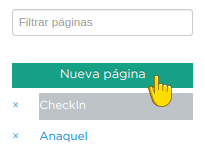
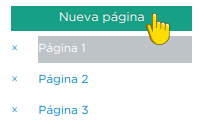
Actualización en configuración de email (Formas)

diff --git a/content/Usuario/Formas/index.rst b/content/Usuario/Formas/index.rst
@@ -44,8 +44,8 @@ Linkaform presentará una plantilla en blanco, a partir de la cual podrá estruc
 
 .. image:: /imgs/Formas/Formas2.png
 
-Nombre de forma
----------------
+Nombre de la forma
+------------------
 
 Para establecer o cambiar el nombre de una forma, siga los pasos:
 
@@ -65,9 +65,15 @@ Las páginas son útiles para organizar la información de formularios extensas 
 
 Para agregar una nueva página, simplemente presione el botón verde ``Nueva página``. 
 
+.. note:: Puede crear las páginas necesarias, que por defecto van tomando el número de página por orden de creación, es decir, página 1, página 2, etc.
+
 .. image:: /imgs/Formas/Formas103.png
 
-.. note:: Puede crear las páginas necesarias, que por defecto van tomando el número de página por orden de creación, es decir, página 1, página 2, etc.
+Para duplicar la página, presione el botón ``Duplicar Página`` ubicado en la parte superior derecha. 
+
+.. note:: Al duplicar, se creará una copia exacta de la página actual, incluido el nombre seguido de la leyenda **copy**, lo que identificará a la página como una copia.
+
+.. image:: /imgs/Formas/Formas106.png
 
 Para definir o cambiar el nombre de una página es sencillo. Siga los siguientes pasos:
 
@@ -82,9 +88,9 @@ Para eliminar una página haga clic en el icono ``x`` ubicado a un costado del n
 
 .. image:: /imgs/Formas/Formas105.png
 
-.. hint:: Si tiene un formulario extenso, utilice el buscador que permite filtrar las páginas.
+Si tiene un formulario extenso, utilice el buscador que permite filtrar las páginas.
 
-  .. image:: /imgs/Formas/Formas104.png
+.. image:: /imgs/Formas/Formas104.png
 
 .. _opciones-campos:
 
@@ -127,20 +133,33 @@ En la siguiente tabla, encontrará características que están disponibles para 
    * - Ayuda
      - Habilita una opción de texto adicional en el campo como referencia a la respuesta solicitada.
 
-.. importante:: Actualizar el nombre es una opción disponible para **todos** los campos. Cuando crea un campo nuevo, por defecto tiene el nombre ``Título de la pregunta``. Pulse sobre él o sobre el icono de edición, ingrese el nuevo nombre y pulse ``Enter`` para identificar el campo.
-
 .. _configuracion:
+
+Nombre de los campos
+^^^^^^^^^^^^^^^^^^^^
+
+La opción de actualizar el nombre está disponible para **todos** los campos. Cuando crea un nuevo campo, el nombre predeterminado es ``Título de la pregunta``. Para actualizar, siga estos pasos:
+
+1. Presione el icono de lápiz o haga clic en el título actual del campo.
+2. Ingrese el nuevo nombre del campo.
+3. Presione el botón verde ``✓`` o directamente ``Enter`` para completar los cambios.
+
+.. image:: /imgs/Formas/Formas108.png
+
+.. attention:: Recuerde que es muy importante guardar cambios después de realizar cualquier modificación dentro de la forma. Para hacerlo, simplemente presione el botón ``Guardar`` ubicado en la parte superior derecha.
+
+  .. image:: /imgs/Formas/Formas107.png
 
 Campo texto 
 ^^^^^^^^^^^
 
-Los campos de tipo texto son utilizados para capturar datos que consisten en caracteres alfabéticos, numéricos o alfanuméricos, tales como nombres, descripciones, comentarios u otra información textual. En las siguientes pestañas, podrá encontrar información útil acerca de su uso.
+Los campos de tipo texto son utilizados para capturar datos que consisten en caracteres alfabéticos, numéricos o alfanuméricos, tales como nombres, descripciones, comentarios u otra información textual. En las siguientes pestañas, podrá encontrar información detallada acerca de su uso.
 
 .. tab-set::
 
     .. tab-item:: Texto una línea
 
-        El campo de texto en línea está diseñado para recopilar respuestas breves, con una limitación de hasta 500 caracteres. 
+        Está diseñado para recopilar respuestas breves, con una limitación de hasta 255 caracteres. 
         
         Estos campos presentan una interfaz de entrada de una sola línea, ideal para capturar información concisa como nombres, direcciones o números de teléfono.
         
@@ -150,39 +169,37 @@ Los campos de tipo texto son utilizados para capturar datos que consisten en car
 
     .. tab-item:: Párrafo
 
-        Permiten recopilar respuestas más extensas, también con una restricción de hasta 500 caracteres. A diferencia de los campos de texto ``Una Línea``, estos campos ofrecen un área más amplia que facilita la entrada de textos más largos, como comentarios detallados o descripciones. 
+        Permiten recopilar respuestas más extensas, con una restricción de hasta 500 caracteres. A diferencia de los campos de texto ``Una Línea``, estos campos ofrecen un área más amplia que facilita la entrada de textos más largos, como comentarios detallados o descripciones. 
         
-        En el campo de ``Párrafo``, los usuarios pueden saltar de línea y copiar vínculos, manteniendo la integridad de los enlaces proporcionados en la respuesta.
+        Este campo permite a los usuarios saltar de línea y copiar vínculos, manteniendo la integridad de los enlaces proporcionados en la respuesta.
 
         .. image:: /imgs/Formas/Formas6.1.png
 
     .. tab-item:: Secreto
 
-        Se utiliza para capturar información sin que la respuesta sea visible durante la captura. 
+        Se utiliza para capturar información sin que la respuesta sea visible durante la captura. La información capturada solo se revelará una vez que se haya enviado el registro.
 
         .. image:: /imgs/Formas/Formas6.2.png
       
-        .. important:: La información capturada solo se revelará una vez que se haya enviado el registro.
-
     .. tab-item:: Descripción
 
         Este campo se utiliza para incluir texto en la forma y que sirva como referencia al momento de capturar información. Puede contener recomendaciones o instrucciones a seguir.
 
         .. image:: /imgs/Formas/Formas6.3.png
         
-        .. caution:: La información capturada en este campo será visible al responder, pero no estará presente en el PDF final.
+        .. note:: Si requiere un PDF del registro, este campo no estará presente en el documento; solo será visible al responder la forma.
 
     .. tab-item:: Email
 
-        En el campo ``Email``, puede capturar direcciones de correo electrónico. 
+        Este campo es útil para capturar únicamente direcciones de correo electrónico. 
 
-        .. important:: Cuando este campo se establece como requerido, Linkaform realiza una validación para asegurarse de que la dirección tenga la estructura correspondiente a un correo electrónico. Sin embargo, Linkaform NO verifica la existencia real del correo electrónico.
-          
-        Activar la opción ``Enviar Email`` permitirá enviar una copia del registro capturado al correo que seleccione.
-
-        .. image:: /imgs/Formas/Formas6.4.png
+        .. important:: Cuando este campo se establece como requerido, Linkaform realiza una validación para asegurarse de que la dirección tenga la estructura correspondiente a un correo electrónico. Sin embargo, Linkaform **no** verifica la existencia real del correo electrónico.
+        
+        El campo **Email** permite configurar la forma para enviar una copia del registro capturado por correo. Para activar esta función, seleccione la opción ``Enviar Email``.
 
         .. caution:: Esta opción está disponible unicamente para formas. 
+
+        .. image:: /imgs/Formas/Formas6.4.png
 
         Se habilitará el botón ``Configuración de Email``. A continuación, siga las siguientes configuraciones:
         
@@ -192,16 +209,16 @@ Los campos de tipo texto son utilizados para capturar datos que consisten en car
 
                 En esta parte, podrá configurar el remitente. 
                 
-                1. Haga clic en el campo.
-                2. Seleccione el remitente deseado.
-
-                .. image:: /imgs/Formas/Formas7.png
+                1. Seleccione el remitente deseado.
 
                 .. important:: Todos los correos generados llegan de la dirección de correo que se elija en esta configuración.
 
+                .. image:: /imgs/Formas/Formas7.png
+
             .. tab-item:: Para
 
-                Esta opción permite configurar al destinatario, siga los siguientes pasos:
+                Esta opción permite configurar opciones de los registros al ser enviados, podrá configurar al destinatario en la ``Configuración de Email`` de toda la forma.
+                siga los siguientes pasos:
 
                 1. Seleccione una opción en el campo ``¿Reenviar correo al editar el campo?`` para enviar una copia cada vez que se edite el registro.
                 2. Active el bullet ``Adjuntar pdf`` si necesita enviar el PDF.
@@ -209,7 +226,7 @@ Los campos de tipo texto son utilizados para capturar datos que consisten en car
                 .. caution:: Si esta opción no se activa, el correo se enviará sin incluir el PDF.
 
                 3. Active el bullet ``Adjuntar imagen de compañía`` para incorporar el logo de la compañía.
-                4. Active el bullet ``Enviar Adjuntos`` para incorporar documentos que pueda contener su registro.
+                4. Active el bullet ``Enviar Adjuntos`` para incorporar documentos que pueda contener el registro.
                 5. Seleccione el formato de plantilla deseado para este registro (en el caso de que la forma tenga más de un formato de PDF diseñado).
 
                 .. image:: /imgs/Formas/Formas7.1.png
@@ -500,6 +517,91 @@ Para utilizar dicho campo, tenga en cuenta los siguientes aspectos y siga los si
       .. image:: /imgs/Formas/Formas17.3.png
 
       Al tener tus configuraciones listas, presione ``Guardar`` y regrese presionando ``Cerrar``.
+
+Configuración de Email
+----------------------
+
+La configuración de correo electrónico permite establecer y personalizar cómo se gestionan y entregan los correos electrónicos para notificar al destinatario según determinadas acciones.
+
+Para acceder y realizar la configuración necesaria, siga estos pasos:
+
+1. Seleccione ``Configuración de Email`` y siga las siguientes configuraciones:
+
+.. tab-set::
+
+  .. tab-item:: De
+
+      En esta opción, configure al remitente. Haga clic en el campo y seleccione el remitente deseado.
+
+      .. image:: /imgs/Formas/Formas7.png
+
+  .. tab-item:: Para
+
+      En este apartado configure al destinatario y opciones sobre el envío de los registros. Siga los siguientes pasos:
+    
+      1. Escriba el nombre del usuario destinatario al que se le notificará y presione Enter.
+      2. Si lo requiere puede seleccionar una opción determinada en el campo ``Enviar A`` Si elige una opcion de este campo orpima el boton ``Agregar`` cada vez que seleccione una opcion. Para eliminar alguna opcion oprima el icono ``x``.
+      3. Seleccione una opcion al momento de editar un registro.
+      5. Active la opción ``Adjuntar PDF`` si necesita que el registro sea enviado en un documento pdf.Seguido de una opcion de una plantilla,
+      
+       por defecto hay plantillas genricaspero si necesita una personalizada consulte la doucmentacion necesartia
+
+      6. Active la opción ``Adjuntar imagen de compañía`` para que el pdf contenga el logo de su empresa.
+      7. Active la opción ``Enviar adjuntos`` si necesita incluir algunos campos de su interés.
+       
+
+      .. image:: /imgs/Formas/Formas47.jpg
+
+      .. note:: En la imagen anterior, se eligió la opción Móvil Android (campo Respuesta Múltiple)
+
+
+      5. Active la opción ``Adjuntar PDF`` si es necesario.
+      6. Active la opción ``Adjuntar imagen de compañía`` si es necesario.
+      7. Active la opción ``Enviar adjuntos`` si necesita incluir algunos campos de su interés.
+       
+      .. image:: /imgs/Formas/Formas48.jpg
+      
+      .. note:: En la imagen anterior, se agregó el correo ``soporte@linkaform.com`` como ejemplo. Continuamos con la configuración de ``Reenvío`` (si es necesario), Adjuntar, elegir la plantilla PDF, así como si se adjuntan en el correo el logotipo de la empresa y datos adjuntos. Los datos adjuntos corresponden a si el registro capturado tiene imágenes, se agregarán en el correo de manera adjunta.
+
+  .. tab-item:: Asunto
+
+      En este campo, se define el asunto que mostrará el correo. 
+                
+      1. Si lo requiere, personalice el texto del asunto.
+              
+      En la parte inferior, Linkaform permite utilizar metadatos y campos de la forma para personalizar el asunto. 
+                
+      1. Seleccione el metadato deseado y haga clic en ``Agregar``. Al hacerlo, aparecerá un código correspondiente al campo seleccionado.
+
+      Del lado derecho, podrá insertar una respuesta del campo.
+
+      1. Seleccione el campo deseado y haga clic en ``Agregar``. Al hacerlo, aparecerá un código correspondiente al campo seleccionado.
+
+      .. admonition:: Ejemplo
+          :class: pied-piper
+
+          Considere el siguiente ejemplo, es un texto personalizado donde:
+
+          .. image:: /imgs/Formas/Formas48.1.png
+
+          - ``{{record.folio}}`` es el metadato que muestra el numero de folio del registro.
+          - ``{{record.answers.6564fc4b7abbbbec1ea2b4ab.6564fc4b7abbbbec1ea2b4ae}}`` es el campo, tienda de tipo texto, como identificador utiliza su ``ID``.
+          - ``{{record.answers.6564fc4b7abbbbec1ea2b4ab.6564fc4b7abbbbec1ea2b4af}}`` es otro campo correspondiente al campo dirección. 
+
+
+  .. tab-item:: Cuerpo
+
+      De manera similar al caso anterior, simplemente seleccione el campo o metadato deseado y haga clic en ``Agregar``. 
+
+      .. image:: /imgs/Formas/Formas48.2.png
+
+  .. tab-item:: Vista previa
+
+      En vista previa, podrá revisar el resultado final de las configuraciones que realizó anteriormente.
+                
+      .. image:: /imgs/Formas/Formas7.4.png
+
+Al estar seguro de sus cambios, seleccione ``Guardar``.
 
 .. _menu-opciones-generales:
 
